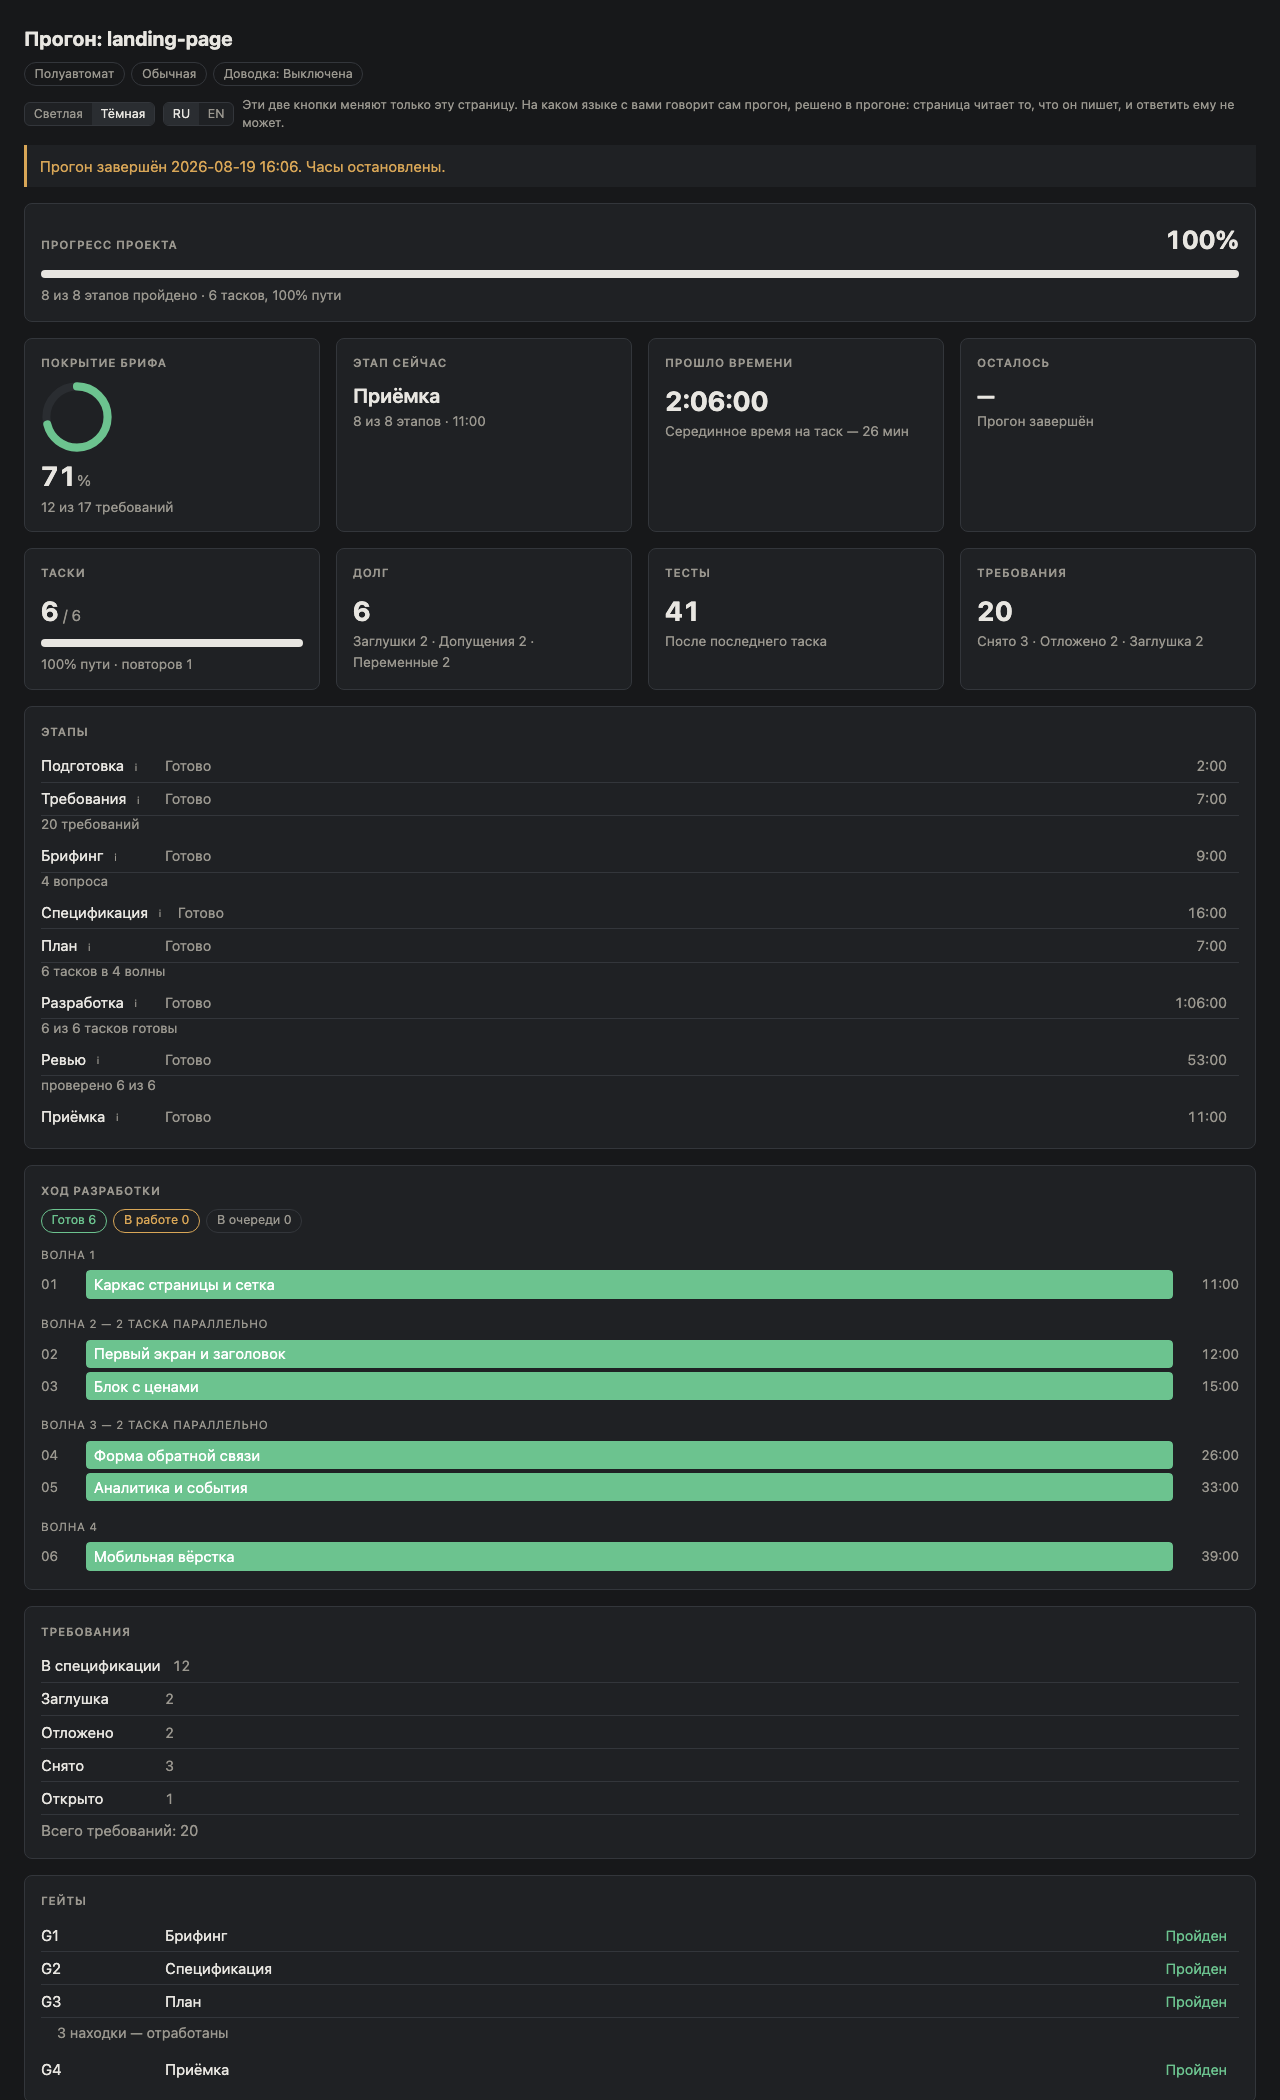
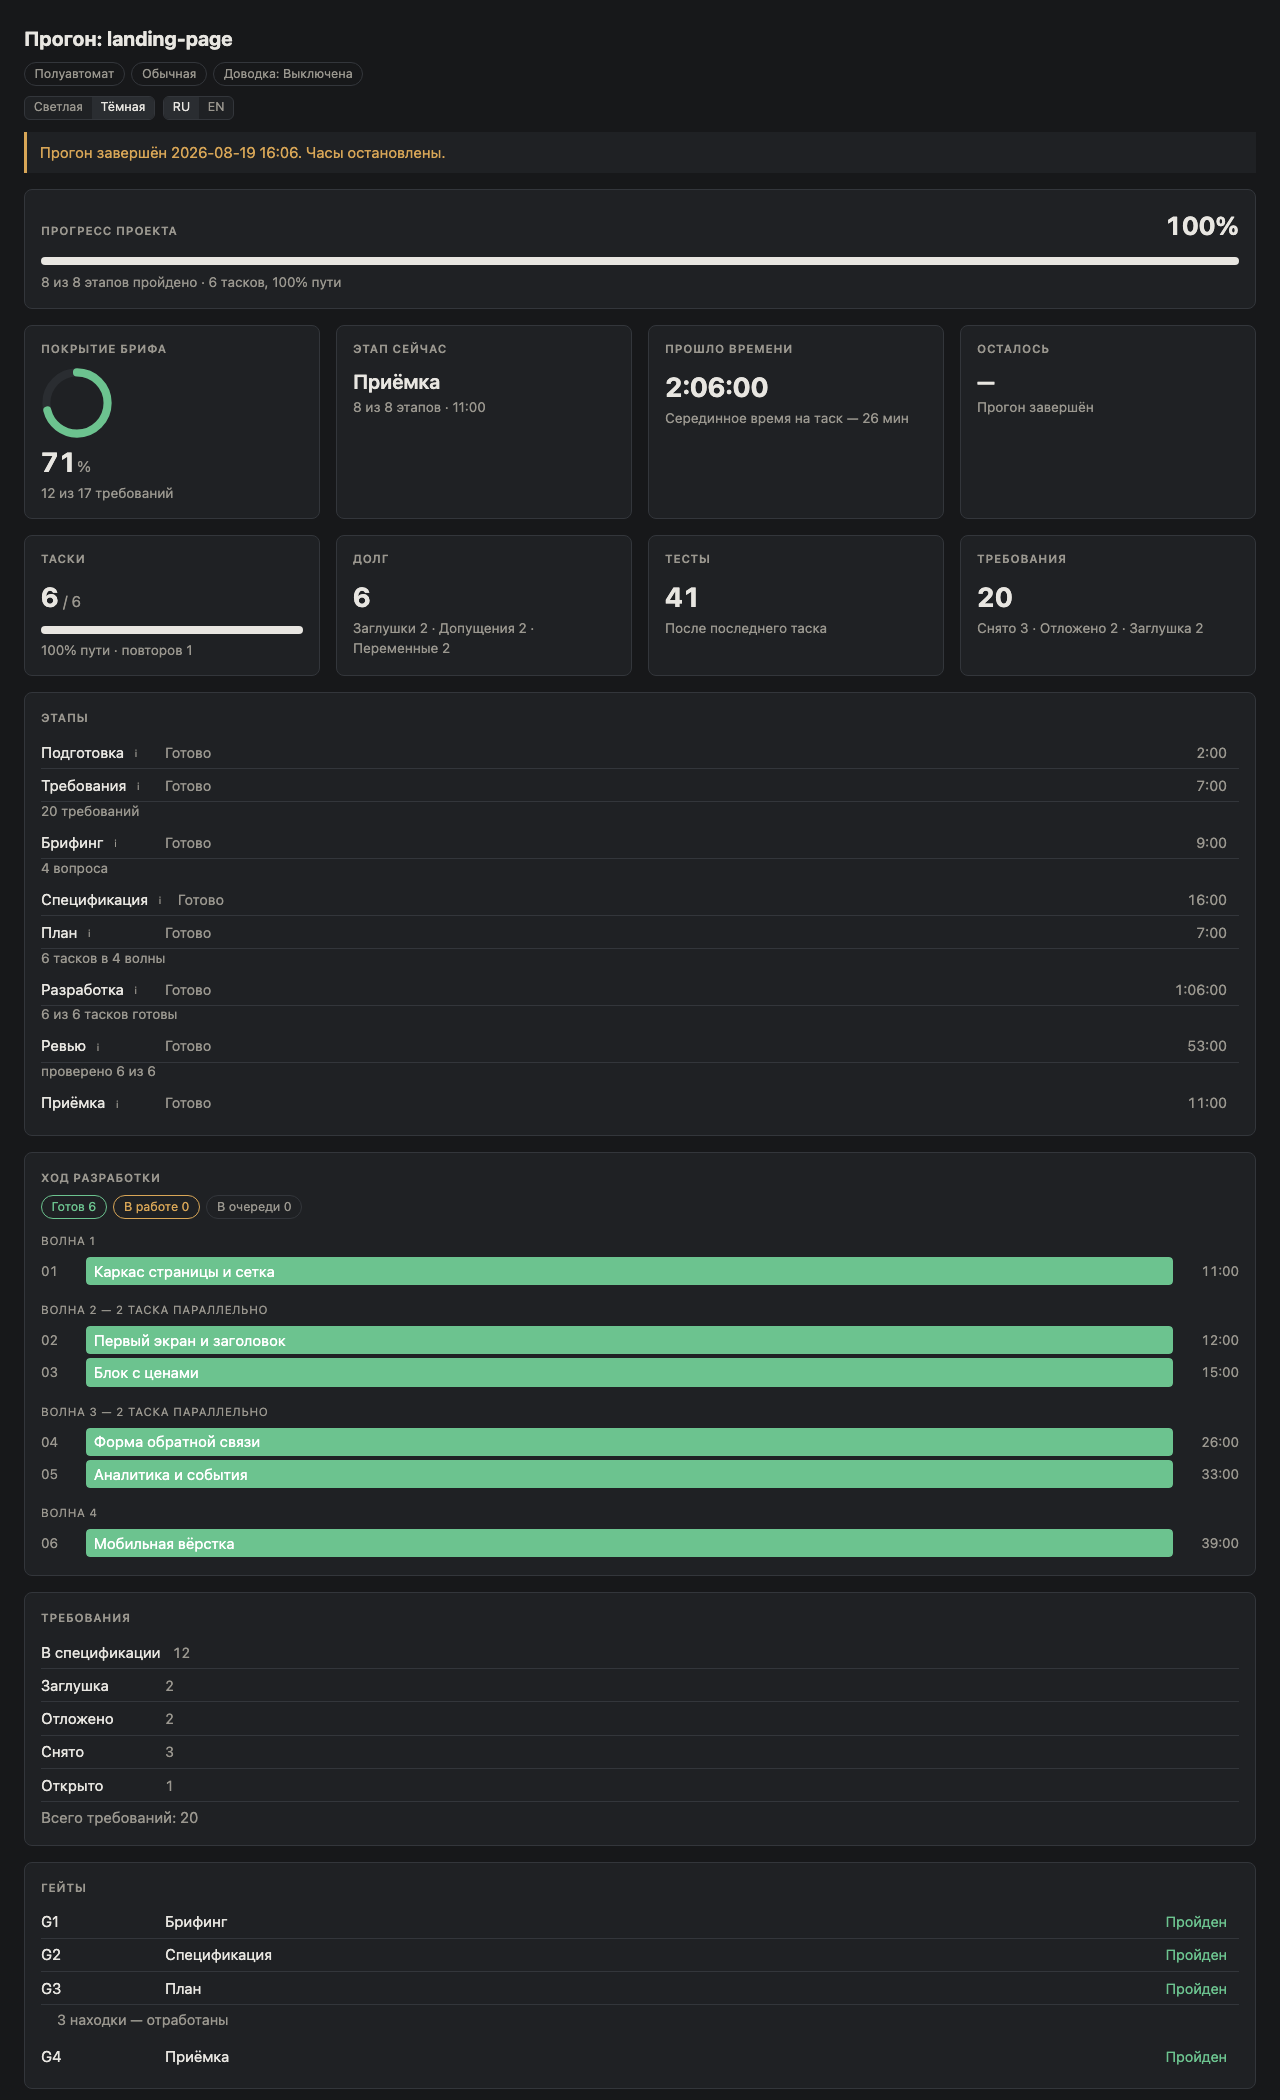
fix(dashboard): stop explaining the language control in the header
The caveat beside the two switches stood there permanently to prevent a
misreading that one press discovers and undoes. It was paying rent on a
problem the button solves by itself.

The sentence could not be removed on its own: dashboard-integrity.ts
failed the build when either language branch stopped carrying it, so the
checker went with it. An invariant belongs in a validator; an opinion
about a sentence belongs in the file that holds the sentence.

Both screenshots regenerated.

diff --git a/scripts/validate/dashboard-integrity.test.ts b/scripts/validate/dashboard-integrity.test.ts
@@ -123,7 +123,7 @@ const RU = {
     + " build: function () { return ['разработка пишет код']; } }",
   STAGE_EXPLAIN_PLAIN: "{ preflight: function () { return ['самое начало']; },"
     + " build: function () { return ['тут пишут код проекта']; } }",
-  UI: "{ viewNote: 'Кнопки меняют только эту страницу.' }",
+  UI: "{ themeAria: 'Тема страницы' }",
 };
 
 const EN = {
@@ -141,7 +141,7 @@ const EN = {
     + " build: function () { return ['development writes the code']; } }",
   STAGE_EXPLAIN_PLAIN: "{ preflight: function () { return ['the very beginning']; },"
     + " build: function () { return ['where the code gets written']; } }",
-  UI: "{ viewNote: 'These buttons change this page and nothing else.' }",
+  UI: "{ themeAria: 'Page theme' }",
 };
 
 /**
@@ -628,11 +628,6 @@ test('a colour defined in one theme and not the other is reported', () => {
   assert.match(found, /"--ink" is declared in the "chosen dark" theme block and not in the light one/);
 });
 
-test('a language control with nothing said beside it is reported', () => {
-  const found = messages(page({ en: { UI: "{ }" } }));
-  assert.match(found, /the en branch carries no viewNote/);
-});
-
 test('customProperties reads a block and nothing past its brace', () => {
   const css = ':root { --a: 1; --b: 2; }\n:root[data-theme="dark"] { --c: 3; }';
   assert.deepEqual(customProperties(css, ':root {'), ['--a', '--b']);
@@ -678,7 +673,7 @@ test('a banned word in the composed sentences is reported', () => {
   // is shared by both registers and read as source, so a branch never taken
   // still ships. This is the check that was silently doing nothing.
   const found = messages(page({
-    ru: { UI: "{ viewNote: 'Кнопки меняют страницу.', gap: 'после гейта' }" },
+    ru: { UI: "{ themeAria: 'Тема страницы', gap: 'после гейта' }" },
   }));
   assert.match(found, /the composed sentences \(ru\) says "гейт"/);
 });

diff --git a/scripts/validate/dashboard-integrity.ts b/scripts/validate/dashboard-integrity.ts
@@ -413,19 +413,6 @@ export function checkDashboard(html: string, spec: SpecSources): Violation[] {
     }
   }
 
-  for (const { language } of LANGUAGES) {
-    const branch = branches[language];
-    const ui = (branch && typeof branch === 'object')
-      ? (branch as Record<string, unknown>)['UI'] : undefined;
-    const note = (ui && typeof ui === 'object')
-      ? (ui as Record<string, unknown>)['viewNote'] : undefined;
-    if (typeof note !== 'string' || note.trim() === '') {
-      add('view', 0,
-        `the ${language} branch carries no viewNote — the language control has to say, `
-        + 'beside itself, that it changes the page and not what the прогон speaks in');
-    }
-  }
-
   /** One language's map inside `L10N`, or an empty one so the loop reports it. */
   const branchMap = (language: string, name: string): Record<string, string> => {
     const branch = branches[language];

diff --git a/skills/maestro/assets/dashboard.html b/skills/maestro/assets/dashboard.html
@@ -245,7 +245,6 @@
     cursor: pointer;
   }
   .switch button[aria-pressed="true"] { background: var(--ghost); color: var(--ink); }
-  #view-note { margin: 0; color: var(--muted); font-size: .78rem; flex: 1 1 14rem; }
   [hidden] { display: none !important; }
 </style>
 </head>
@@ -263,7 +262,6 @@
       <button type="button" data-language-choice="ru">RU</button>
       <button type="button" data-language-choice="en">EN</button>
     </div>
-    <p id="view-note"></p>
   </div>
   <p id="notice" hidden></p>
 </header>
@@ -2781,7 +2779,6 @@ globalThis.MAESTRO_SNAPSHOT = null;
     }
     el('theme-switch').setAttribute('aria-label', T.UI.themeAria);
     el('language-switch').setAttribute('aria-label', T.UI.languageAria);
-    el('view-note').textContent = T.UI.viewNote;
   }
 
   function mountSwitches() {

diff --git a/docs/spec/dashboard.md b/docs/spec/dashboard.md
@@ -79,13 +79,15 @@ watching one прогон may legitimately want different ones, so a single stor
 answer would be wrong for one of them. `contractVersion` does not move for it,
 `state-contract.md` does not mention it, and neither does `config.json`.
 
-**The language control changes the view and nothing else, and it says so.** It
-cannot change the language the прогон speaks in: the page reads `state.js` and
-has no channel back — that is the *Input* rule above, working as intended. So a
-sentence beside the control says what it does not do, in the language being
-shown. Without it the button quietly promises the one thing this page cannot
-deliver, and `scripts/validate/dashboard-integrity.ts` fails the build when a
-language branch stops carrying that sentence.
+**The language control changes the view and nothing else, and the header does
+not explain that.** It cannot change the language the прогон speaks in: the page
+reads `state.js` and has no channel back — that is the *Input* rule above,
+working as intended. The page once carried a sentence beside the control saying
+so, and it was removed: a paragraph of caveat sat permanently in the header for
+a misreading that costs one press to discover and undo, and the reader who
+pressed the button and saw only the page change has learned the whole of it.
+Nothing checks for that sentence any more; the table above is where the *never*
+is recorded.
 
 ## The Language It Paints In
 

diff --git a/docs/dashboard.md b/docs/dashboard.md
@@ -101,9 +101,9 @@ page was opened on, and the language follows what the run decided.
 
 A press is remembered by the browser and nothing else. Neither control reaches
 the run: the page reads `state.js` and has no way back, so the language button
-repaints this page and cannot change the language the run speaks in. The line
-beside the buttons says so, because a control that looks like it does more than
-it does is worse than no control.
+repaints this page and cannot change the language the run speaks in. The header
+does not say so — a paragraph of caveat standing there permanently cost more
+than the misreading it prevented, and one press settles the question anyway.
 
 ## The fixtures behind these images
 
